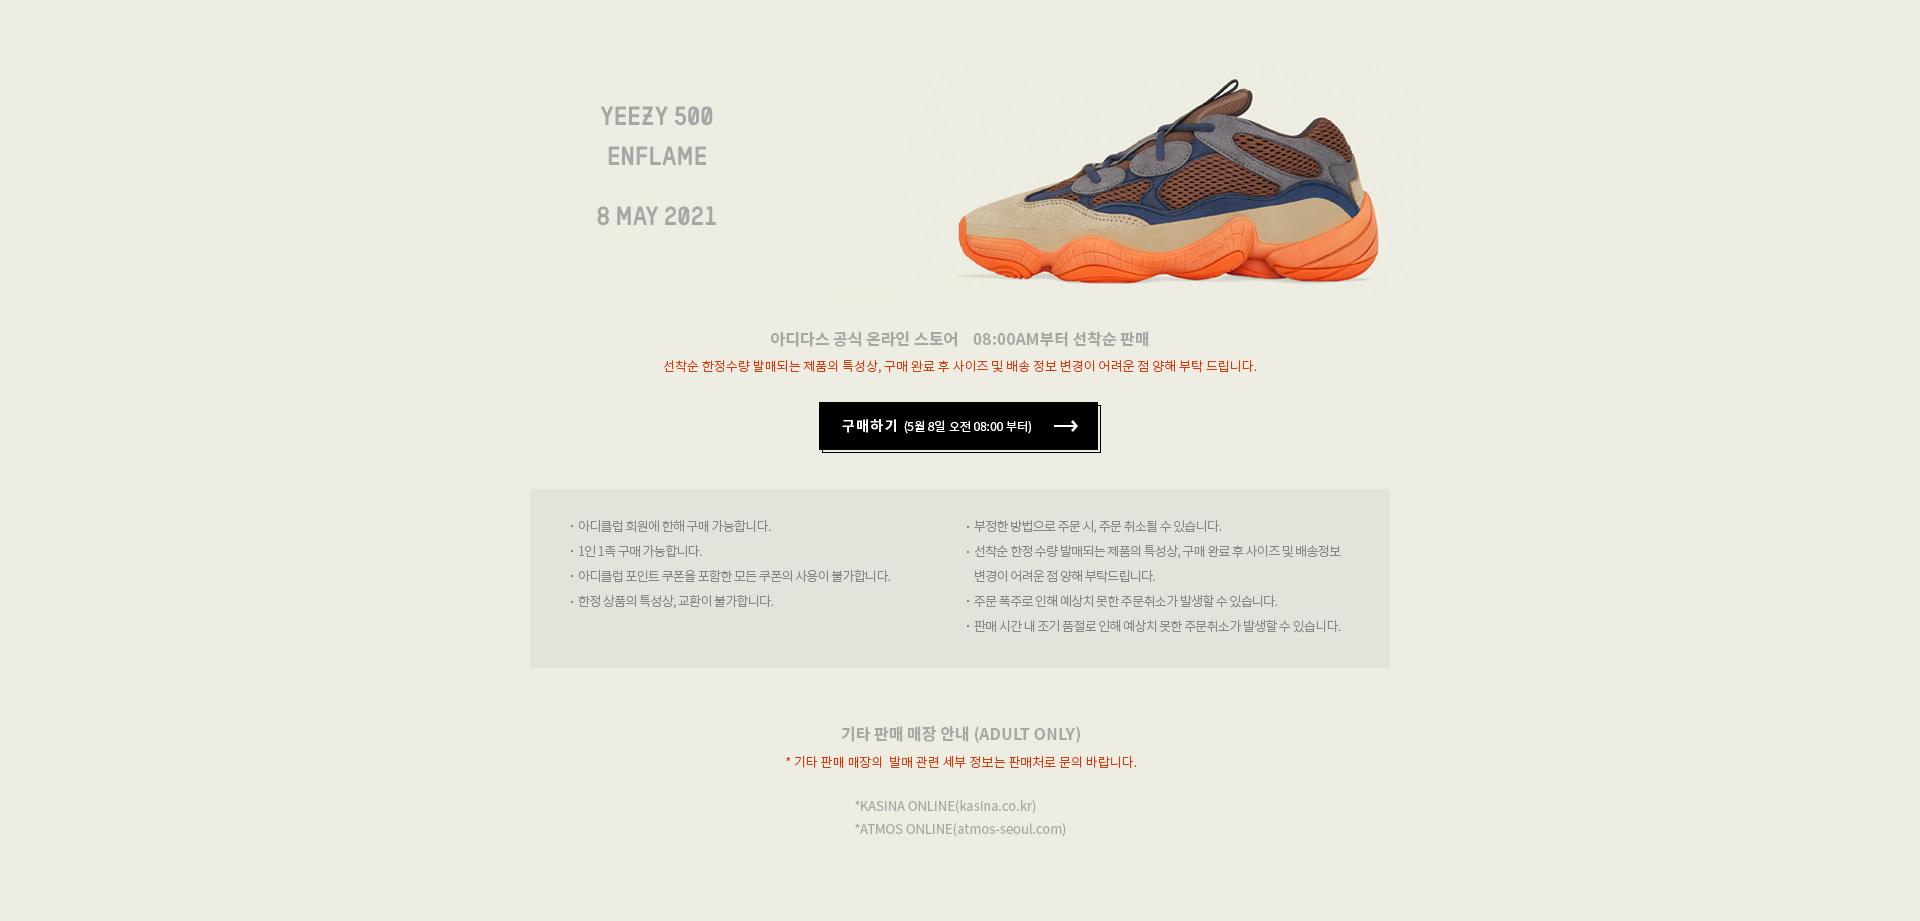
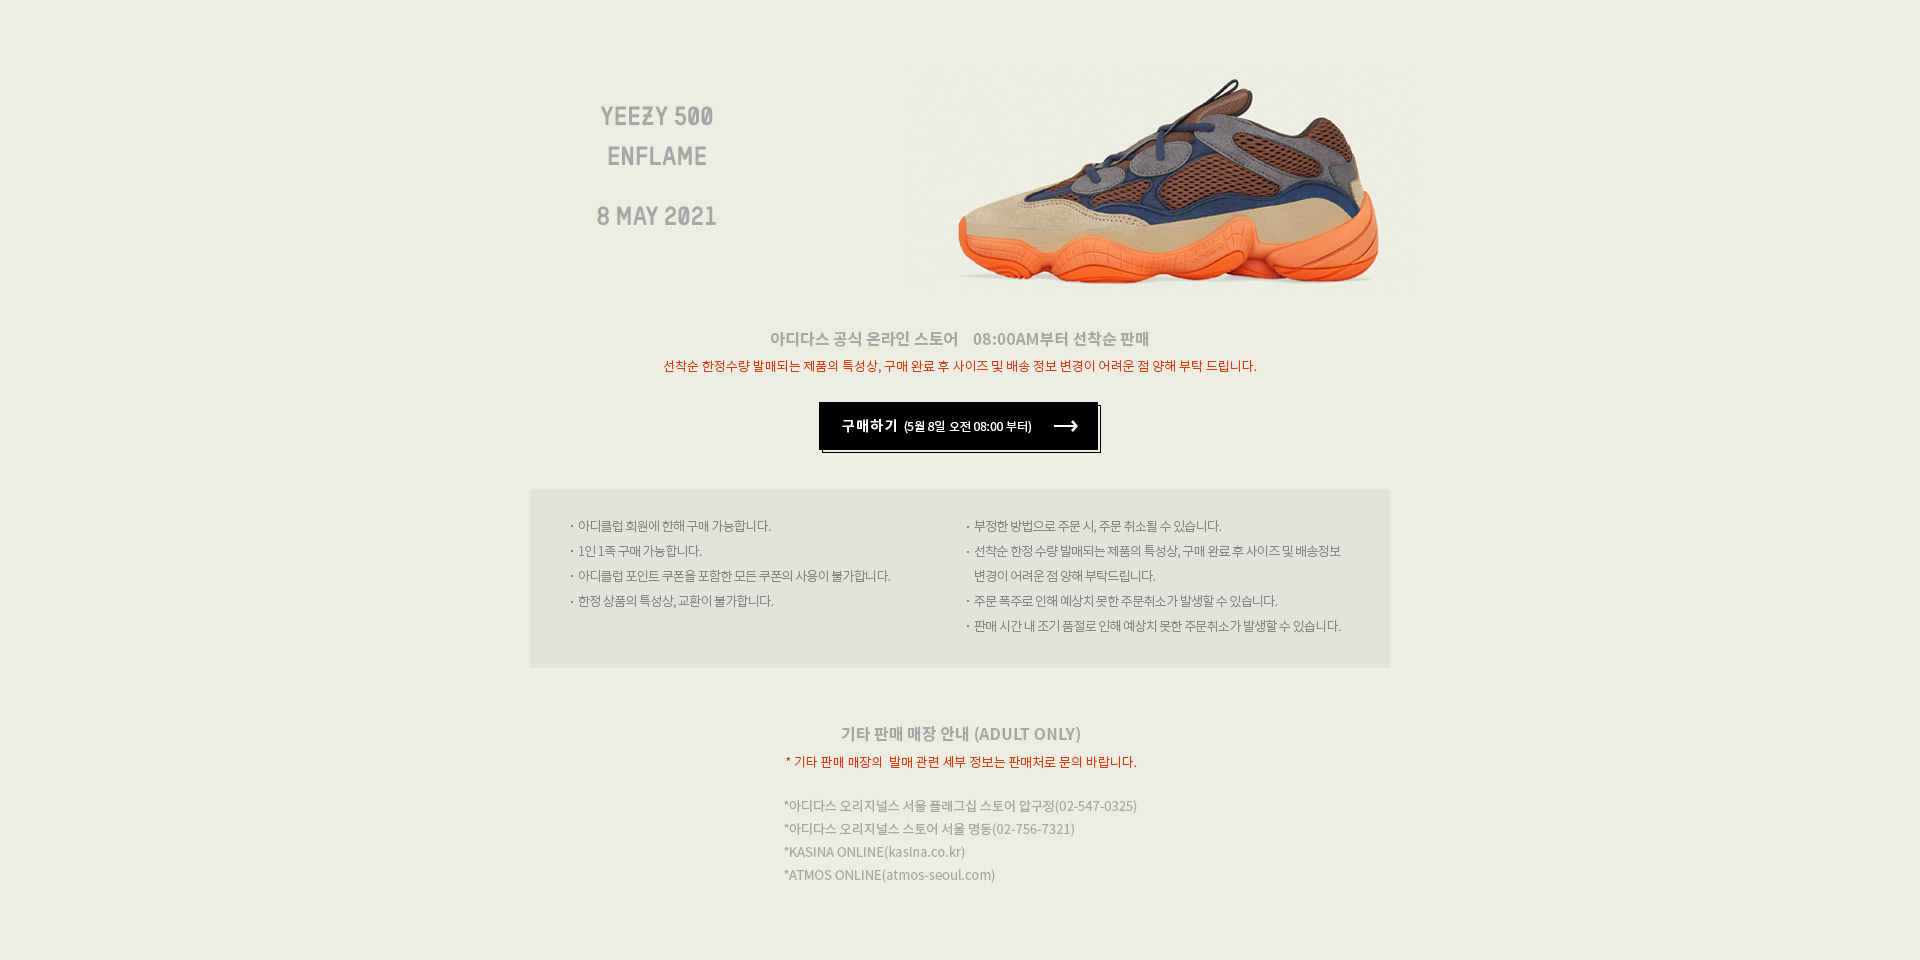
-

diff --git a/front/html/adidas/2021/event/yeezy_information/build/index.html b/front/html/adidas/2021/event/yeezy_information/build/index.html
@@ -46,7 +46,7 @@
 			<script type="text/javascript" src="//image.adidas.co.kr//js/adidas/event/commonCampaign.js"></script>
 
 			<div id="yeezy_no_raffle">
-				<div class="visual" style="height:921px;">
+				<div class="visual" style="height:960px;">
 					<div class="bg">
 						<img src="/images/adidas/2021/event/yeezy_information/0504/210503_a_yeezy_info_DT.jpg" alt="" border="0"
 							usemap="#map01">

diff --git a/front/html/adidas/2021/event/yeezy_information/index.html b/front/html/adidas/2021/event/yeezy_information/index.html
@@ -44,7 +44,7 @@
 			<script type="text/javascript" src="//image.adidas.co.kr//js/adidas/event/commonCampaign.js"></script>
 
 			<div id="yeezy_no_raffle">
-				<div class="visual" style="height:921px;">
+				<div class="visual" style="height:960px;">
 					<div class="bg">
 						<img src="/images/adidas/2021/event/yeezy_information/0504/210503_a_yeezy_info_DT.jpg" alt="" border="0"
 							usemap="#map01">

diff --git a/front/html/adidas/html/pn/YEEZY_INFORMATION.html b/front/html/adidas/html/pn/YEEZY_INFORMATION.html
@@ -6,7 +6,7 @@
 	
 				<div id="yeezy_no_raffle">
 
-					<div class="visual" style="height:921px;">
+					<div class="visual" style="height:960px;">
 						<div class="bg">
 							<img src="/images/adidas/2021/event/yeezy_information/0504/210503_a_yeezy_info_DT.jpg" alt="" border="0"
 								usemap="#map01">
